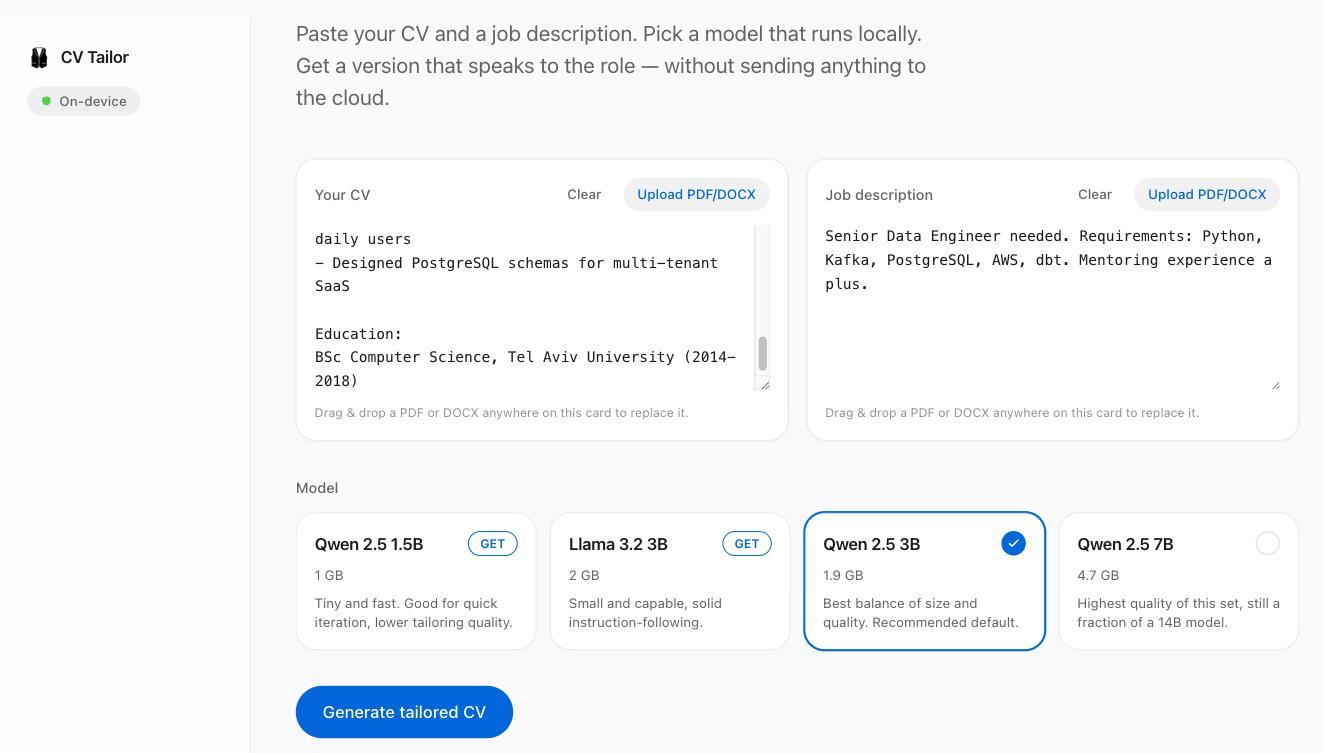
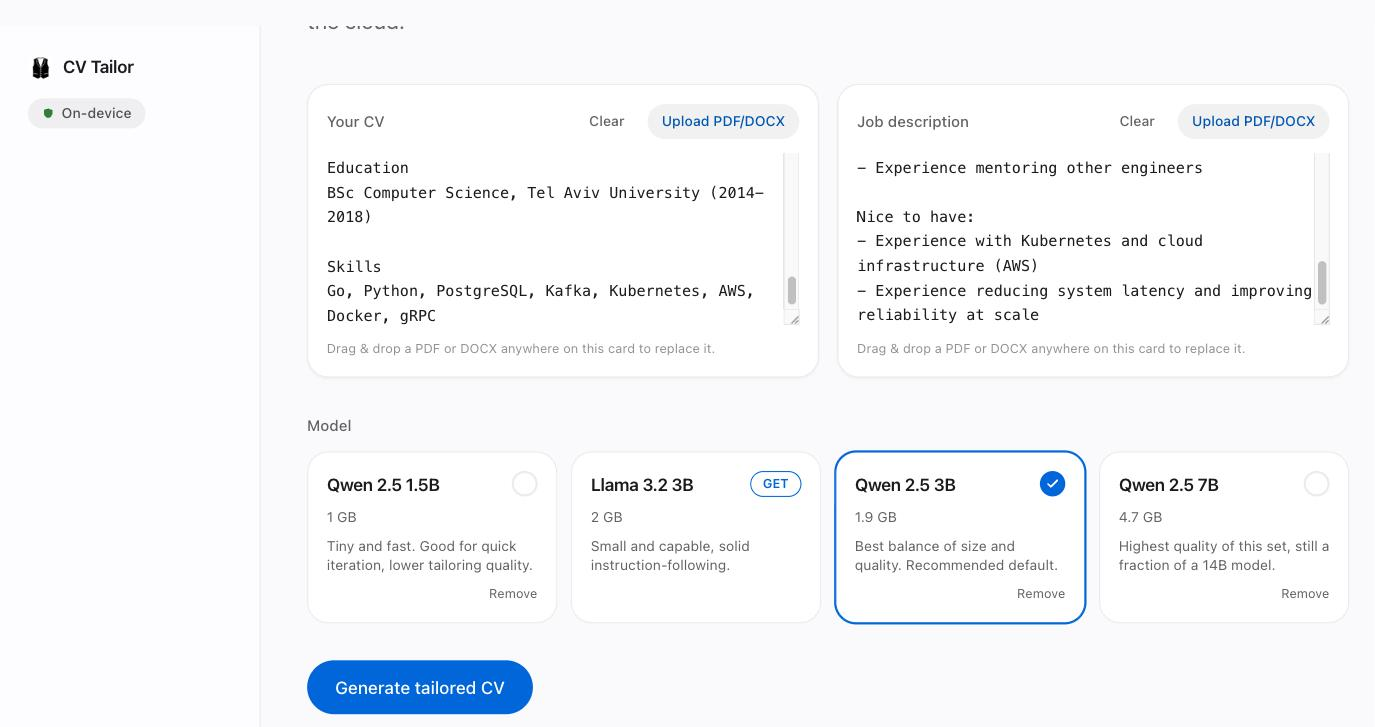
Bring README and screenshots current (#39)
Rewrote the intro, "How it works", and added a "Your data, saved
locally" section to cover everything shipped since the last refresh:
cover letter generation, session restore/CV history, the Cancel
button, model pull cancel/delete with a pre-pull disk-space check,
and "Clear all local data". Re-captured hero/model-picker/preview
screenshots against the current UI and added a new cover-letter one.

Claude-Session: https://claude.ai/code/session_01Mngo3P2hUKLcYtx7qNYbHx

diff --git a/README.md b/README.md
@@ -4,7 +4,7 @@
 
 A localhost app that tailors your CV to a job description — entirely on your own machine, using a local model through [Ollama](https://ollama.com). No API key, no cloud, nothing leaves your computer.
 
-Paste or upload (PDF/DOCX) your CV and a job description, pick a local model, and get back a tailored CV you can export as Markdown, plain text, HTML, Word (.docx), or PDF.
+Paste or upload (PDF/DOCX) your CV and a job description, pick a local model, and get back a tailored CV you can export as Markdown, plain text, HTML, Word (.docx), or PDF — plus a matching cover letter, grounded only in what's actually in your CV. Your draft and past results are saved locally so you can pick up where you left off, and every generation can be cancelled mid-run.
 
 ## Screenshots
 
@@ -14,23 +14,30 @@ Paste or upload (PDF/DOCX) your CV and a job description, pick a local model, an
 **Pick a local model — only the one you choose gets downloaded**
 ![Model picker](./docs/screenshots/model-picker.jpg)
 
-**Get a tailored preview, ready to export**
+**Get a tailored preview, ready to export, with your past runs saved in the sidebar**
 ![Generated CV preview](./docs/screenshots/preview.jpg)
+
+**Generate a matching cover letter, editable and ready to copy or download**
+![Cover letter panel](./docs/screenshots/cover-letter.jpg)
 
 ## How it works
 
 1. **Extraction** — uploaded PDF/DOCX files are converted to plain text locally (`unpdf`, `mammoth`).
-2. **Generation** — a single call to your local Ollama model returns one structured JSON representation of the CV (name, summary, skills, experience, education, ...), constrained by a JSON schema. The model reorders and rewrites your existing skills/summary/bullets to match the job description — it's instructed not to invent experience you don't have.
+2. **Generation** — a single call to your local Ollama model returns one structured JSON representation of the CV (name, summary, skills, experience, education, ...), constrained by a JSON schema. The model reorders and rewrites your existing skills/summary/bullets to match the job description — it's instructed not to invent experience you don't have. The cover letter is the same idea as plain text: one call, grounded only in the CV JSON and the job description, no new facts invented.
 3. **Export** — all five output formats are rendered deterministically from that one JSON object, so they never drift from each other.
 
-There's no agent loop, no tool-calling, no multi-step pipeline — just one prompt-in/JSON-out call per generation.
+There's no agent loop, no tool-calling, no multi-step pipeline — just one prompt-in/JSON-out call per generation. Every generation can be cancelled mid-run, and gives up on its own after a few minutes if Ollama stops responding, instead of hanging forever.
+
+### Your data, saved locally
+
+Your CV/job-description draft and the last 20 generated CVs are saved in your browser's `localStorage` — nothing server-side, nothing synced anywhere. Reopen the app and your draft and history are still there; click a past entry in the sidebar to bring it back into the preview. A "Clear all local data" link at the bottom of the sidebar wipes both in one click, useful before handing the machine to someone else.
 
 ## Requirements
 
 - Node.js 20+
 - [Ollama](https://ollama.com) installed and running (`ollama serve`)
 
-You don't need to pre-pull a model — the model picker in the UI lists a few curated, small-footprint options (Qwen 2.5 1.5B/3B/7B, Llama 3.2 3B — 1GB to 4.7GB) and downloads whichever one you pick, with a progress indicator, the first time you select it.
+You don't need to pre-pull a model — the model picker in the UI lists a few curated, small-footprint options (Qwen 2.5 1.5B/3B/7B, Llama 3.2 3B — 1GB to 4.7GB) and downloads whichever one you pick, with a progress indicator, the first time you select it. A download can be cancelled mid-pull, and a downloaded model can be removed from the picker directly (no need to drop to a terminal for `ollama rm`) — the app also checks you have enough free disk space before starting a pull, rather than starting a multi-gigabyte download that could fill your disk.
 
 ### Choosing a model
 
@@ -146,7 +153,10 @@ rm -rf ~/Library/Application\ Support/Ollama
 Ollama isn't running, or isn't reachable on the port the app expects (`localhost:11434`). Start it with `ollama serve` (or launch the Ollama app) and try again.
 
 **A model pull or generation seems stuck**
-The first generation with a given model includes a cold load into memory, which can take a while — especially for larger models (7B) or slower hardware (Intel Macs, weaker GPUs). Give it a minute or two before assuming it's hung; subsequent generations with the same model are faster since it stays loaded.
+The first generation with a given model includes a cold load into memory, which can take a while — especially for larger models (7B) or slower hardware (Intel Macs, weaker GPUs). Give it a minute or two before assuming it's hung; subsequent generations with the same model are faster since it stays loaded. If it's truly stuck, click Cancel — generation also times out on its own (4 minutes for a CV, 2 for a cover letter) if Ollama stops responding entirely.
+
+**"Another generation is already in progress" error**
+Only one generation runs at a time, even across browser tabs — this app talks to a single local Ollama instance, and two generations running at once would just slow each other down. Wait for the first to finish, or cancel it, then try again.
 
 **"Unknown model" error**
 The app's curated model list and Ollama's installed models can get out of sync (e.g. you removed a model with `ollama rm` in another terminal). Refresh the page to re-sync the picker with what's actually installed.

diff --git a/CHANGELOG.md b/CHANGELOG.md
@@ -6,6 +6,10 @@ The format is based on [Keep a Changelog](https://keepachangelog.com/en/1.1.0/).
 
 ## [Unreleased]
 
+### Changed
+
+- `README.md` and its screenshots brought current with everything shipped since the last refresh: cover letter generation, session restore/CV history, the Cancel button, model pull cancel/delete with a pre-pull disk-space check, and the "Clear all local data" action. Added a new cover-letter screenshot and re-captured the other three against the current UI.
+
 ### Added
 
 - A scoped ESLint guardrail on `lib/render/**/*.ts` (the five CV export renderers) and `lib/schema.ts` (the single source-of-truth `Cv` Zod schema), the app's most type-correctness-critical code: `@typescript-eslint/no-non-null-assertion`, `@typescript-eslint/no-unsafe-assignment`, `@typescript-eslint/no-unsafe-member-access`, and `@typescript-eslint/no-unsafe-return`, all set to `"error"` via a new `eslint.config.mjs` override with `parserOptions.projectService` enabled for that file scope (type-aware linting, needed for the `no-unsafe-*` rules). `@typescript-eslint/no-explicit-any` was already `"error"` repo-wide via `eslint-config-next`'s base `typescript-eslint` `recommended` config, so it wasn't re-added. Confirmed the guardrail actually fires (deliberate `any`/unsafe-access/non-null-assertion in a scratch edit, reverted before committing) rather than just parsing.
